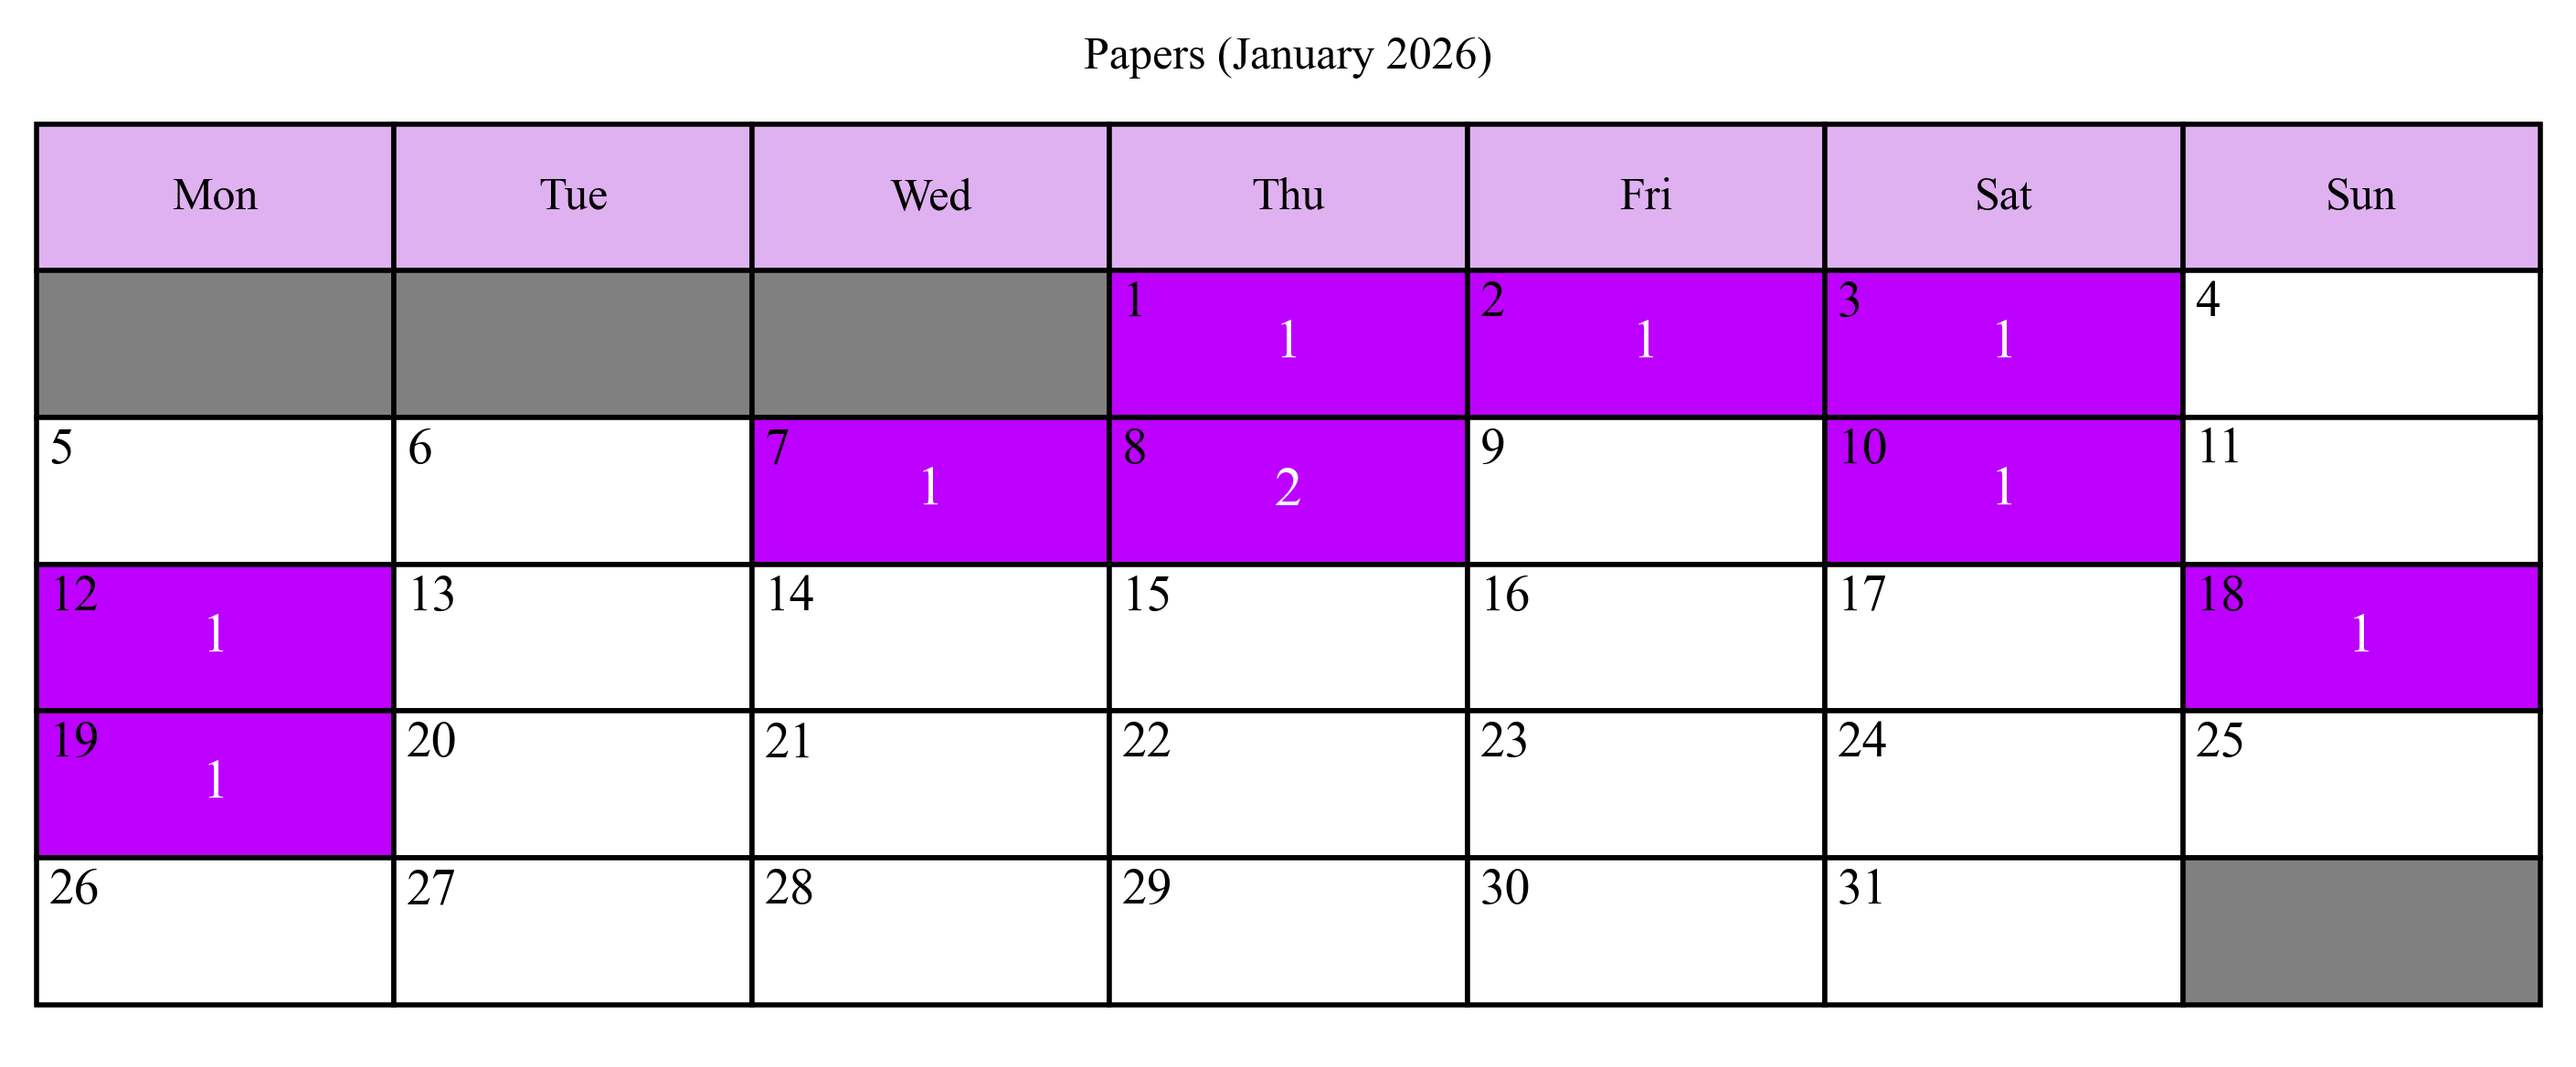
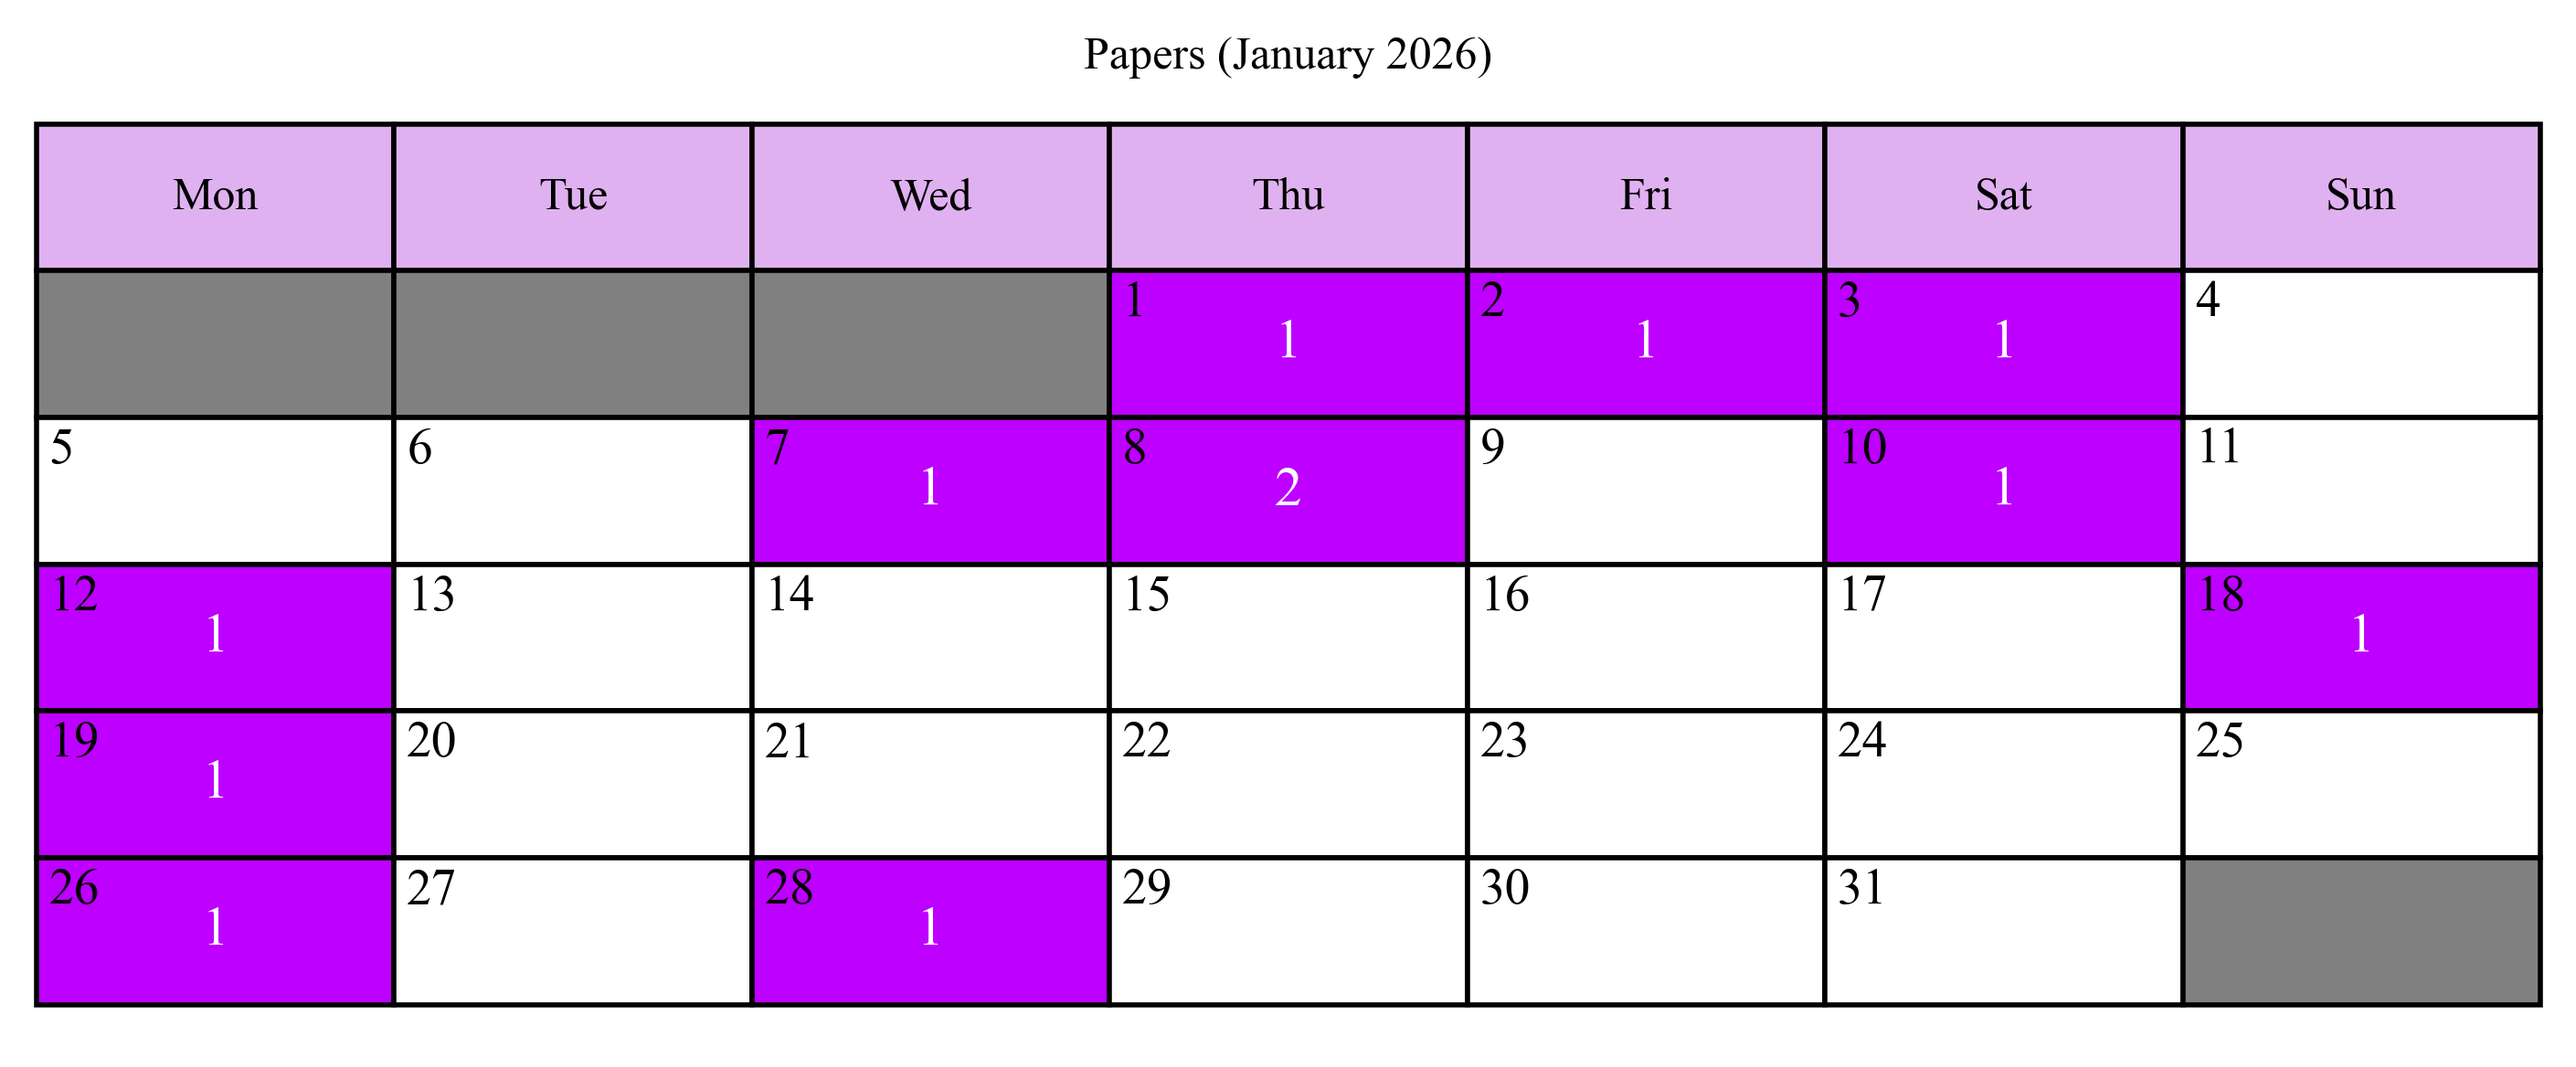
(Automated) updated paper log: January 28, 2026

Changed region(s): [[0.281, 0.8014, 0.437, 0.9555], [0.0, 0.8014, 0.1561, 0.9555]]

diff --git a/papers/index.html b/papers/index.html
@@ -29,11 +29,13 @@
       <div class="main-content">
         <div class="main-section">
           <!-- <summary_text> -->
-<p>This is where I log the papers I've read this year. My goal for 2026 is to read 300 papers. By the last time this document was last updated (<b>January 25, 2026</b>), I have read <b>10 papers</b> this year. I should have read <b>20 papers</b> by this time, meaning I am <b>10 papers behind schedule</b>.</p>
+<p>This is where I log the papers I've read this year. My goal for 2026 is to read 300 papers. By the last time this document was last updated (<b>January 28, 2026</b>), I have read <b>12 papers</b> this year. I should have read <b>22 papers</b> by this time, meaning I am <b>10 papers behind schedule</b>.</p>
           <!-- </summary_text> -->
           <p><img src="cal.png" style="width: 100%;" alt="A monthly calendar depicting the following tabular data graphically."></p>
           <!-- <paper_table> -->
 <table>
+  <tr><td>1/28/26</td><td>Collective Communication for 100k+ GPUs</td><td><a href="https://arxiv.org/abs/2510.20171" target="_parent">Link</a></td><td>Meta, arXiv, 2026</td></tr>
+  <tr><td>1/26/26</td><td>Demystifying NCCL: An In-depth Analysis of GPU Communication Protocols and Algorithms</td><td><a href="https://arxiv.org/abs/2507.04786" target="_parent">Link</a></td><td>ETH Zurich/NVIDIA, arXiv, 2025</td></tr>
   <tr><td>1/19/26</td><td>The Landscape of GPU-Centric Communication</td><td><a href="https://arxiv.org/abs/2409.09874" target="_parent">Link</a></td><td>Koç University, arXiv, 2024</td></tr>
   <tr><td>1/18/26</td><td>Hot Regions in SPEC CPU2017</td><td><a href="https://lca.ece.utexas.edu/pubs/qinzhe_iiswc.pdf" target="_parent">Link</a></td><td>UT Austin, IISWC, 2018</td></tr>
   <tr><td>1/12/26</td><td>A Scheduling Framework for Efficient MoE Inference on Edge GPU-NDP Systems</td><td><a href="https://arxiv.org/abs/2601.03992" target="_parent">Link</a></td><td>Nanjing University China, arXiv, 2026</td></tr>
@@ -58,7 +60,7 @@
       <!-- <last_updated_text> --> 
 <div class="last-updated">
   <p class="last-updated-text">
-    Last updated: January 25, 2026 at 20:15 UTC.
+    Last updated: January 28, 2026 at 22:11 UTC.
   </p>
 </div>
 
